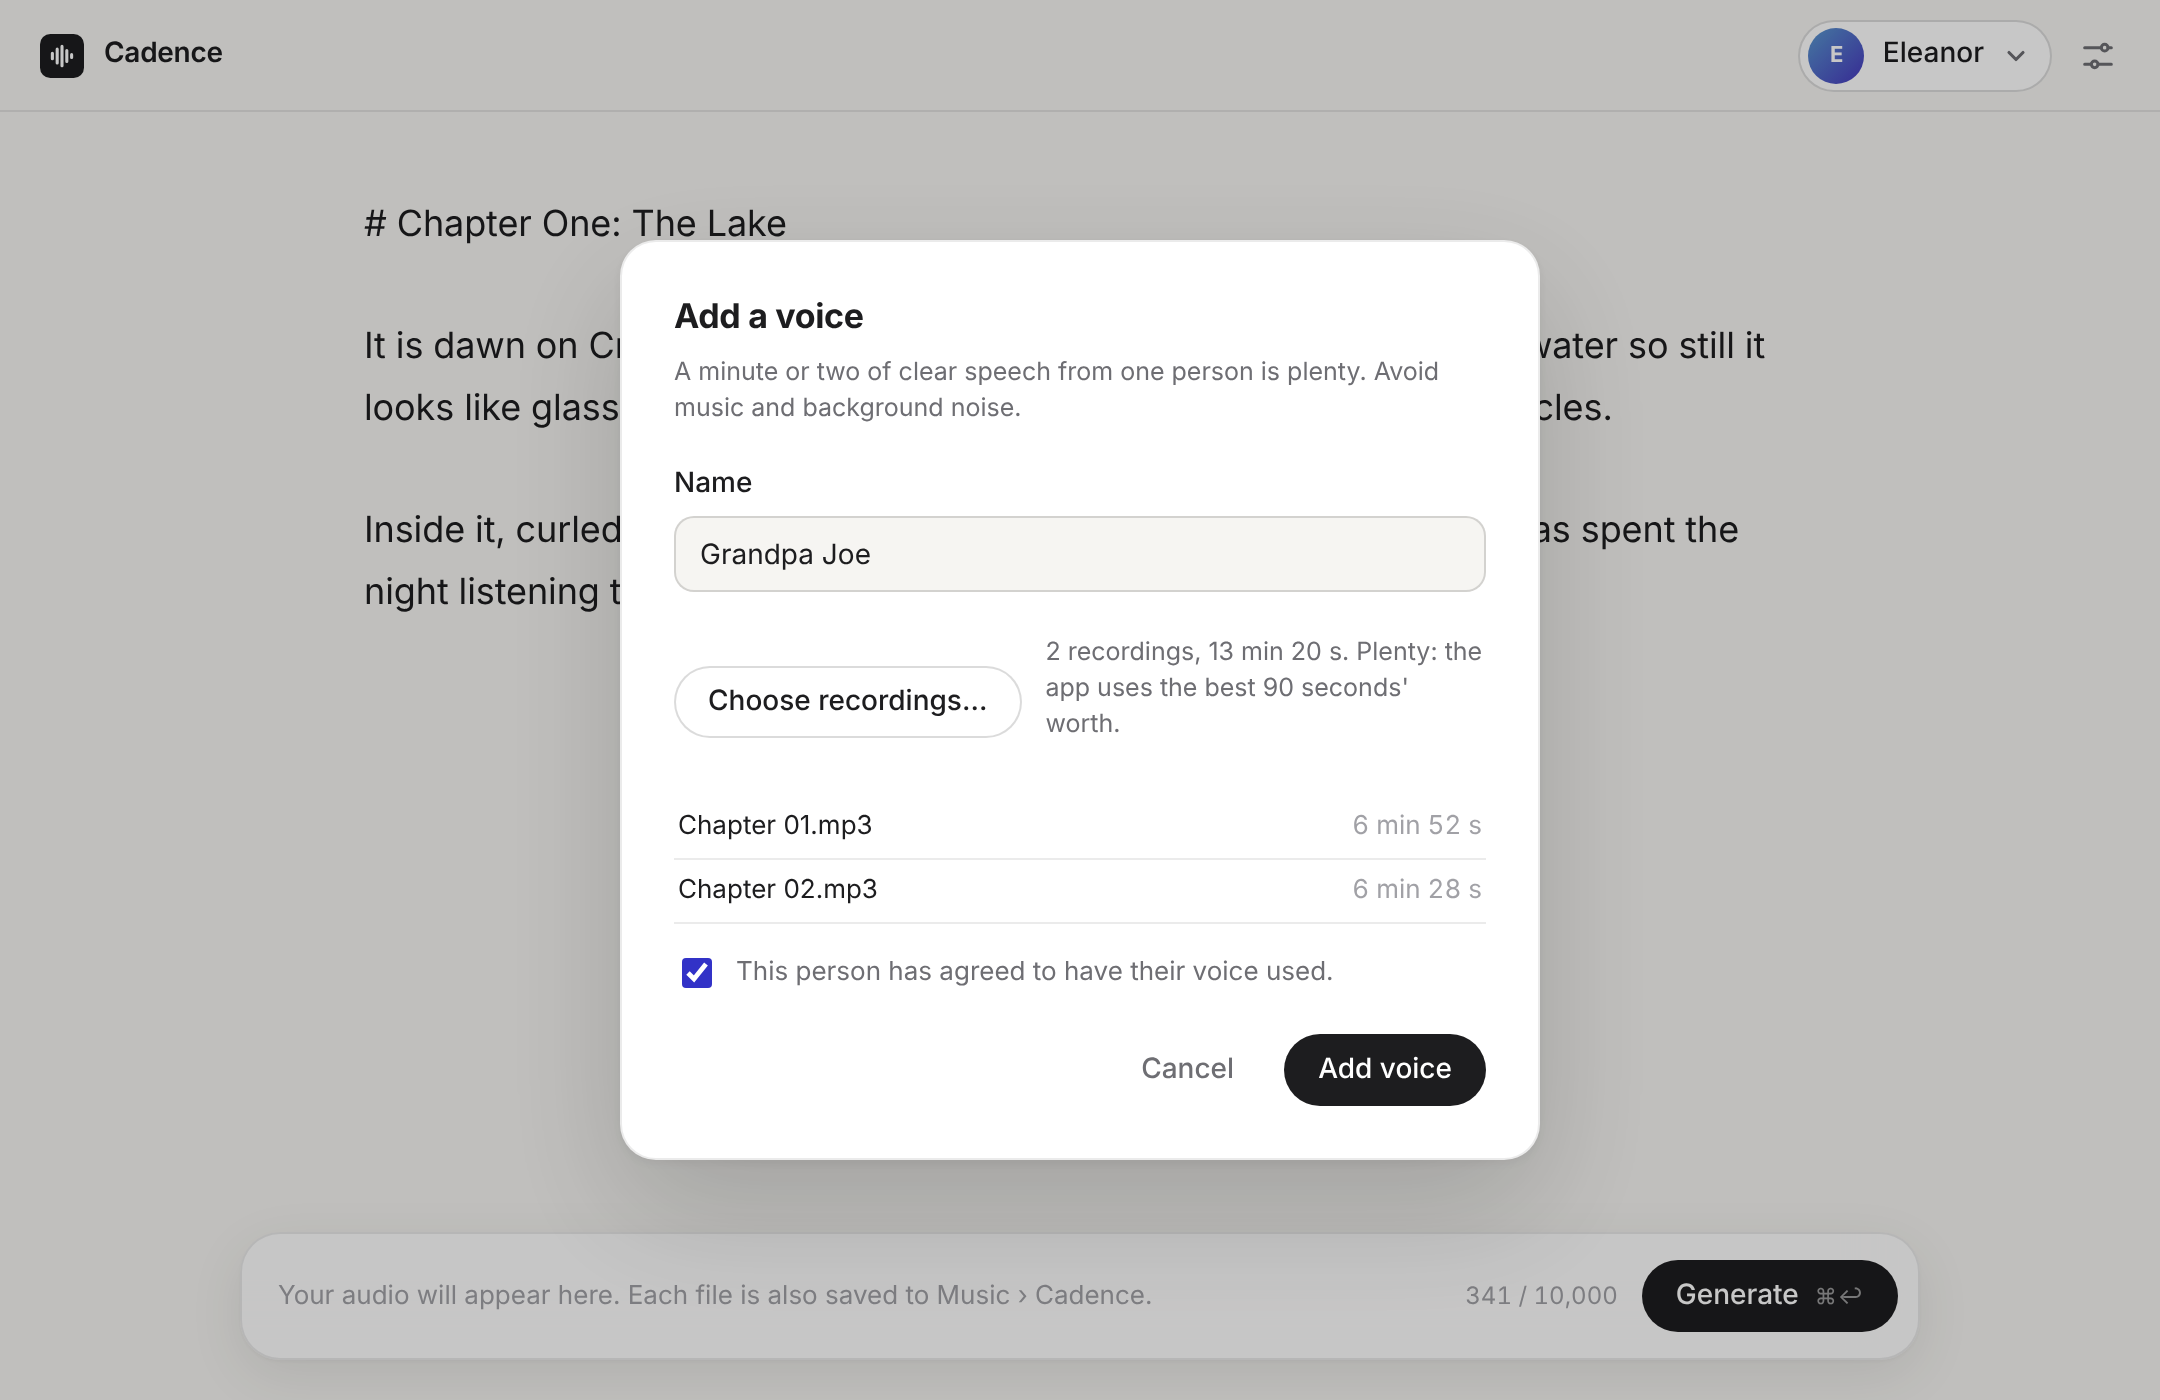
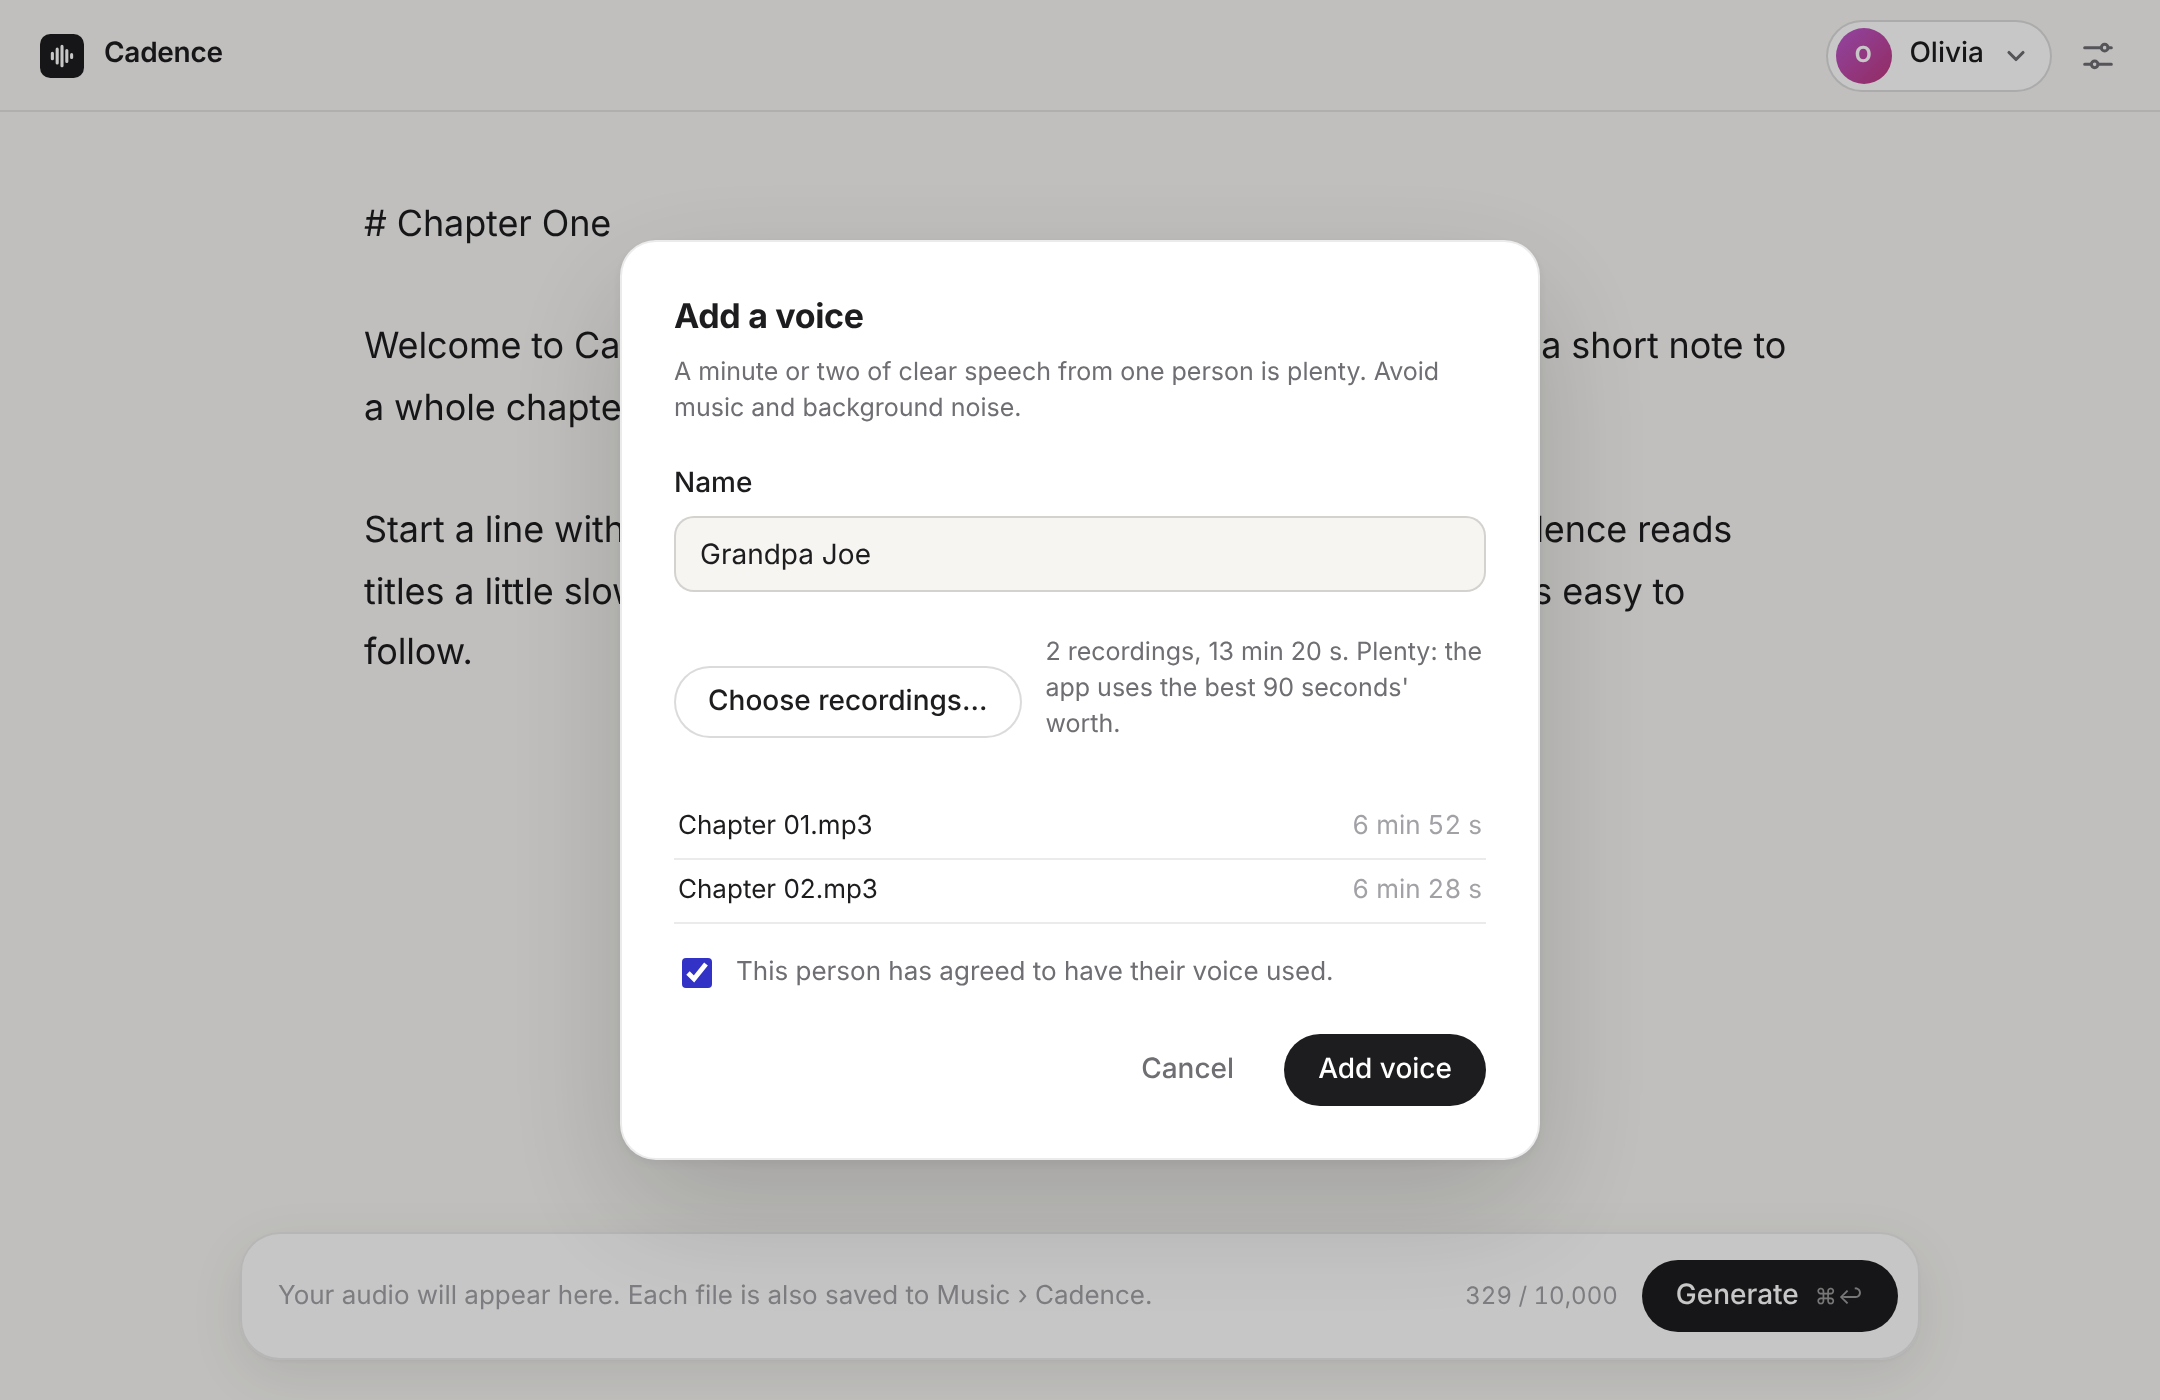
Show generic text in the app screenshots
The window now shows a short welcome under a '# Chapter One' title,
explaining how titles work, with Olivia and Grayson as the voices.

Claude-Session: https://claude.ai/code/session_01FJcW3RWe9CZLbyU6CMJrPu

diff --git a/index.html b/index.html
@@ -60,7 +60,7 @@
           <picture>
             <source srcset="assets/img/app-dark.png" media="(prefers-color-scheme: dark)">
             <img src="assets/img/app-light.png" width="2160" height="1400"
-                 alt="Cadence's window: a chapter of a story in a clean writing space, the voice Eleanor selected, and a finished recording ready to play.">
+                 alt="Cadence's window: a chapter title and text in a clean writing space, the voice Olivia selected, and a finished recording ready to play.">
           </picture>
         </div>
       </div>
